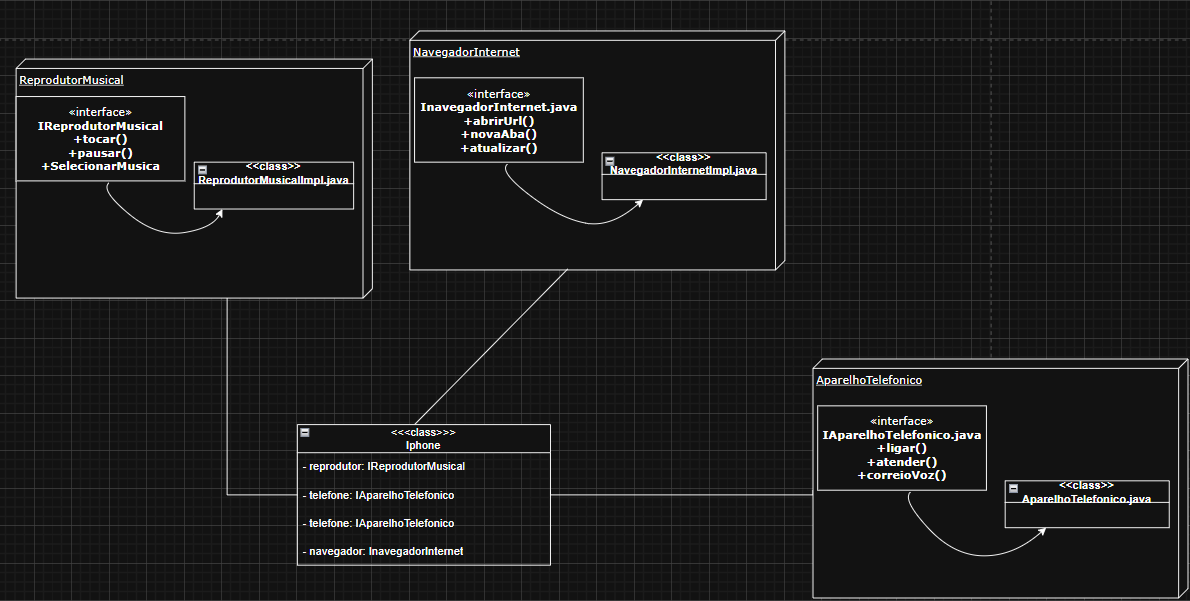
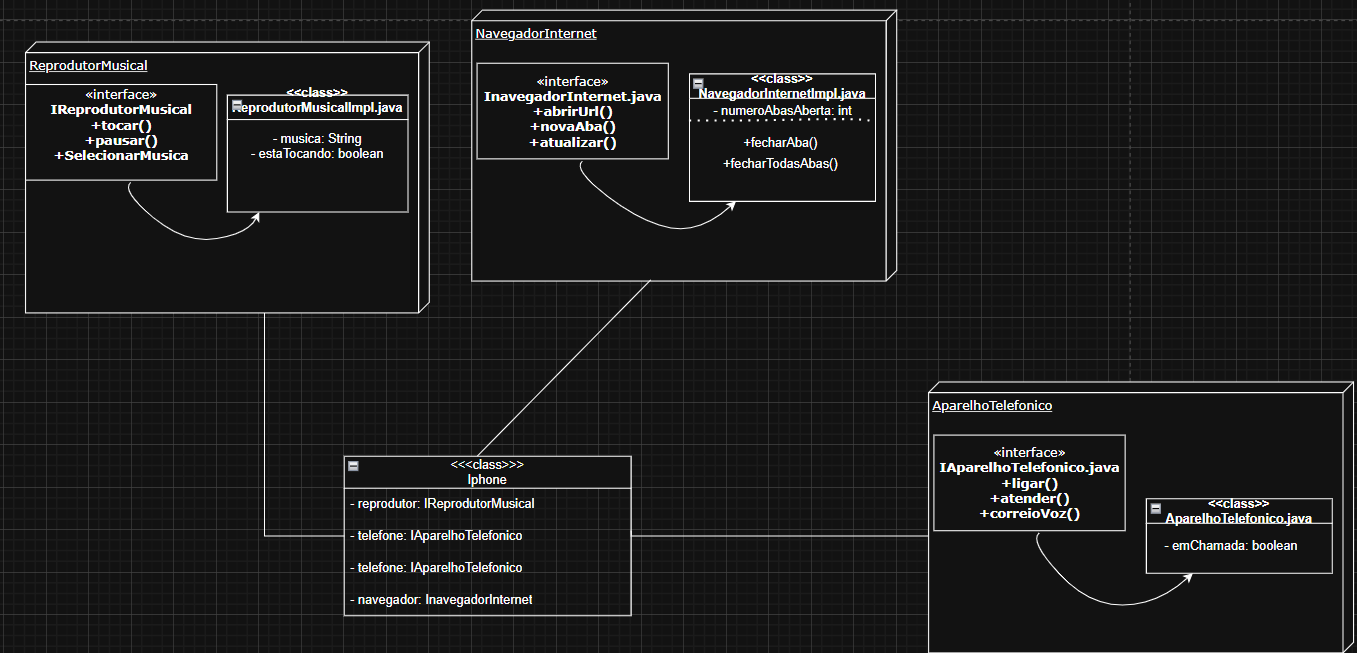
Finalização do projeto

diff --git a/Iphone/src/AparelhoTelefonico/AparelhoTelefonico.java b/Iphone/src/AparelhoTelefonico/AparelhoTelefonico.java
@@ -1,5 +1,60 @@
 package AparelhoTelefonico;
 
-public class AparelhoTelefonico {
+public class AparelhoTelefonico implements IAparelhoTelefonico {
+
+    // Estado interno para saber se está em chamada
+    private boolean emChamada = false;
+
+    @Override
+    public void ligar(String numero) {
+        if (numero == null) {
+            throw new IllegalArgumentException("Número não pode ser nulo.");
+        }
     
+        numero = numero.replaceAll("\\D", ""); // mantém apenas dígitos
+    
+        if (!numero.matches("\\d{10,11}")) {
+            throw new IllegalArgumentException("Número inválido. O número deve conter 10 ou 11 dígitos numéricos.");
+        }
+    
+        System.out.println("Ligando para " + formatarNumero(numero) + "...");
+        this.emChamada = true;
+    }
+
+    @Override
+    public void atender() {
+        if (!emChamada) {
+            System.out.println("Nenhuma chamada para atender.");
+        } else {
+            System.out.println("Chamada atendida.");
+        }
+        this.emChamada = true;
+    }
+
+    @Override
+    public void correioVoz(String mensagem) {
+        if (mensagem == null || mensagem.isBlank()) {
+            System.out.println("Mensagem de correio de voz está vazia.");
+        } else {
+            System.out.println("Mensagem de correio de voz: " + mensagem);
+        }
+    }
+
+    // Método auxiliar para formatar número no padrão brasileiro
+    private String formatarNumero(String numero) {
+        String ddd = numero.substring(0, 2);
+        String parte1, parte2;
+
+        if (numero.length() == 11) {
+            // Formato para celular: (11) 98765-4321
+            parte1 = numero.substring(2, 7);
+            parte2 = numero.substring(7);
+        } else {
+            // Formato para telefone fixo: (11) 1234-5678
+            parte1 = numero.substring(2, 6);
+            parte2 = numero.substring(6);
+        }
+
+        return "(" + ddd + ") " + parte1 + "-" + parte2;
+    }
 }

diff --git a/Iphone/src/Iphone.java b/Iphone/src/Iphone.java
@@ -1,9 +1,38 @@
-
+import AparelhoTelefonico.AparelhoTelefonico;
+import NavegadorInternet.NavegadorInternetImpl;
+import ReprodutorMusical.ReprodutorMusicalImpl;
 
 public class Iphone {
-
     public static void main(String[] args) {
+
+        AparelhoTelefonico aparelho = new AparelhoTelefonico();
+        NavegadorInternetImpl navegar = new NavegadorInternetImpl();
+        ReprodutorMusicalImpl reprodutor = new ReprodutorMusicalImpl();
+
+        // Teste com  o objeto AparelhoTelefonico
+        aparelho.ligar("(11) 98765-4321");
+        aparelho.atender();
+        aparelho.correioVoz("Olá, você ligou para mim!");
+        System.out.println("------------------------------------------------------");
+
+        // Teste com o objeto NavegadorInternetImpl
+        navegar.abrirUrl("https://www.google.com");
+        navegar.abrirUrl("https://www.github.com");
+        navegar.fecharAba();
+        navegar.fecharTodasAbas();
+        navegar.atualizar();
+        navegar.abrirUrl("https:.//www.youtube.com");
+        System.out.println("------------------------------------------------------");
         
+
+        // Teste com o objeto ReprodutorMusicalImpl
+        reprodutor.selecionarMusica("Bastille - Good Grief");
+        reprodutor.tocar();
+        reprodutor.pausar();
+
+        
+
+
     }
     
 }

diff --git a/Iphone/src/NavegadorInternet/NavegadorInternetImpl.java b/Iphone/src/NavegadorInternet/NavegadorInternetImpl.java
@@ -1,0 +1,44 @@
+package NavegadorInternet;
+
+public class NavegadorInternetImpl implements InavegadorInternet {
+
+    // Estado interno para controle de abas abertas
+    private int numeroAbasAbertas = 0;
+
+
+    @Override
+    public void abrirUrl(String url) {
+        if(url == null || url.isBlank()){
+            throw new IllegalArgumentException("URL inválida. A URL não pode ser nula ou vazia.");
+        }
+        System.out.println("Abrindo URL: " + url);
+        novaAba();
+    }
+
+    @Override
+    public void novaAba() {
+        numeroAbasAbertas++;
+        System.out.println("Abrindo nova aba. Total de abas abertas: " + numeroAbasAbertas);
+    }
+
+    @Override
+    public void atualizar() {
+        System.out.println("Atualizando página.");
+    }
+
+    // Método para fechar uma aba
+    public void fecharAba() {
+        if (numeroAbasAbertas > 0) {
+            numeroAbasAbertas--;
+            System.out.println("Fechando aba. Total de abas abertas: " + numeroAbasAbertas);
+        } else {
+            System.out.println("Nenhuma aba aberta para fechar.");
+        }
+    }
+
+    public void fecharTodasAbas() {
+        numeroAbasAbertas = 0;
+        System.out.println("Todas as abas foram fechadas.");
+    }
+    
+}

diff --git a/Iphone/src/ReprodutorMusical/ReprodutorMusicalImpl.java b/Iphone/src/ReprodutorMusical/ReprodutorMusicalImpl.java
@@ -1,6 +1,36 @@
 //Nossa classe ReprodutorMusicalImpl implementa a interface ReprodutorMusical
 package ReprodutorMusical;
 
-public class ReprodutorMusicalImpl {
-    
+public class ReprodutorMusicalImpl implements IReprodutorMusical {
+
+    private String musica;
+    private boolean estaTocando = false;
+
+    @Override
+    public void tocar() {
+        if(musica == null) {
+            System.out.println("Erro: Nenhuma Música selecionada.");
+            return;
+        }
+        estaTocando = true;
+        System.out.println("> Tocando: " + musica);
+    }
+
+    @Override
+    public void pausar() {
+        if(estaTocando){
+            estaTocando = false;
+            System.out.println("|| Música pausada");
+        } 
+    }
+
+    @Override
+    public void selecionarMusica(String musica) {
+        if(musica == null || musica.isBlank()){
+            throw new IllegalArgumentException("Nome da música inválida!");
+        } 
+        this.musica = musica;
+        System.out.println("Música selecionada: " + musica);
+    }
+
 }

diff --git a/Iphone/src/NavegadorInternet/InavegadorInternet.java b/Iphone/src/NavegadorInternet/InavegadorInternet.java
@@ -1,5 +1,17 @@
 package NavegadorInternet;
 
 public interface InavegadorInternet {
-    
+    /*
+     * Contraato para operações de um navegador de internet.
+     */
+
+    public void abrirUrl(String url) throws IllegalArgumentException;
+    /*Exibe a página com a url fornecida. 
+     * @param url Endereço da página (deve começar com "http://" ou "https://").
+     * @throws IllegalArgumentException Se a URL for inválida.
+    */
+
+    public void novaAba();// Abre uma nova aba no navegador
+    public void atualizar();// Atualiza a página atual do navegador
+
 }

diff --git a/Iphone/src/ReprodutorMusical/IReprodutorMusical.java b/Iphone/src/ReprodutorMusical/IReprodutorMusical.java
@@ -1,5 +1,9 @@
 package ReprodutorMusical;
-// Aqui será definido o contrato para a interface IReprodutorMusical
-public interface IReprodutorMusical {
-   
+   /*
+    * Contrato para um reprodutor musical básico.
+   */
+   public interface IReprodutorMusical {
+   void tocar();
+   void pausar();
+   void selecionarMusica(String musica) throws IllegalArgumentException;
 }

diff --git a/Iphone/src/AparelhoTelefonico/IAparelhoTelefonico.java b/Iphone/src/AparelhoTelefonico/IAparelhoTelefonico.java
@@ -1,5 +1,9 @@
 package AparelhoTelefonico;
 
 public interface IAparelhoTelefonico {
+
+    void ligar(String numero) throws IllegalArgumentException;
+    void atender();
+    void correioVoz(String mensagem);
     
 }

diff --git a/Iphone/README.md b/Iphone/README.md
@@ -31,7 +31,7 @@ Representar os papéis do iPhone através de:
 
 ## 📊 Diagrama UML
 
-<img src="lib\uml.png" width="400">
+<img src="lib\UML.png" width="1200">
 
 ### Principais Componentes
 | **Pacote**           | **Interface**           | **Responsabilidade**                     |
